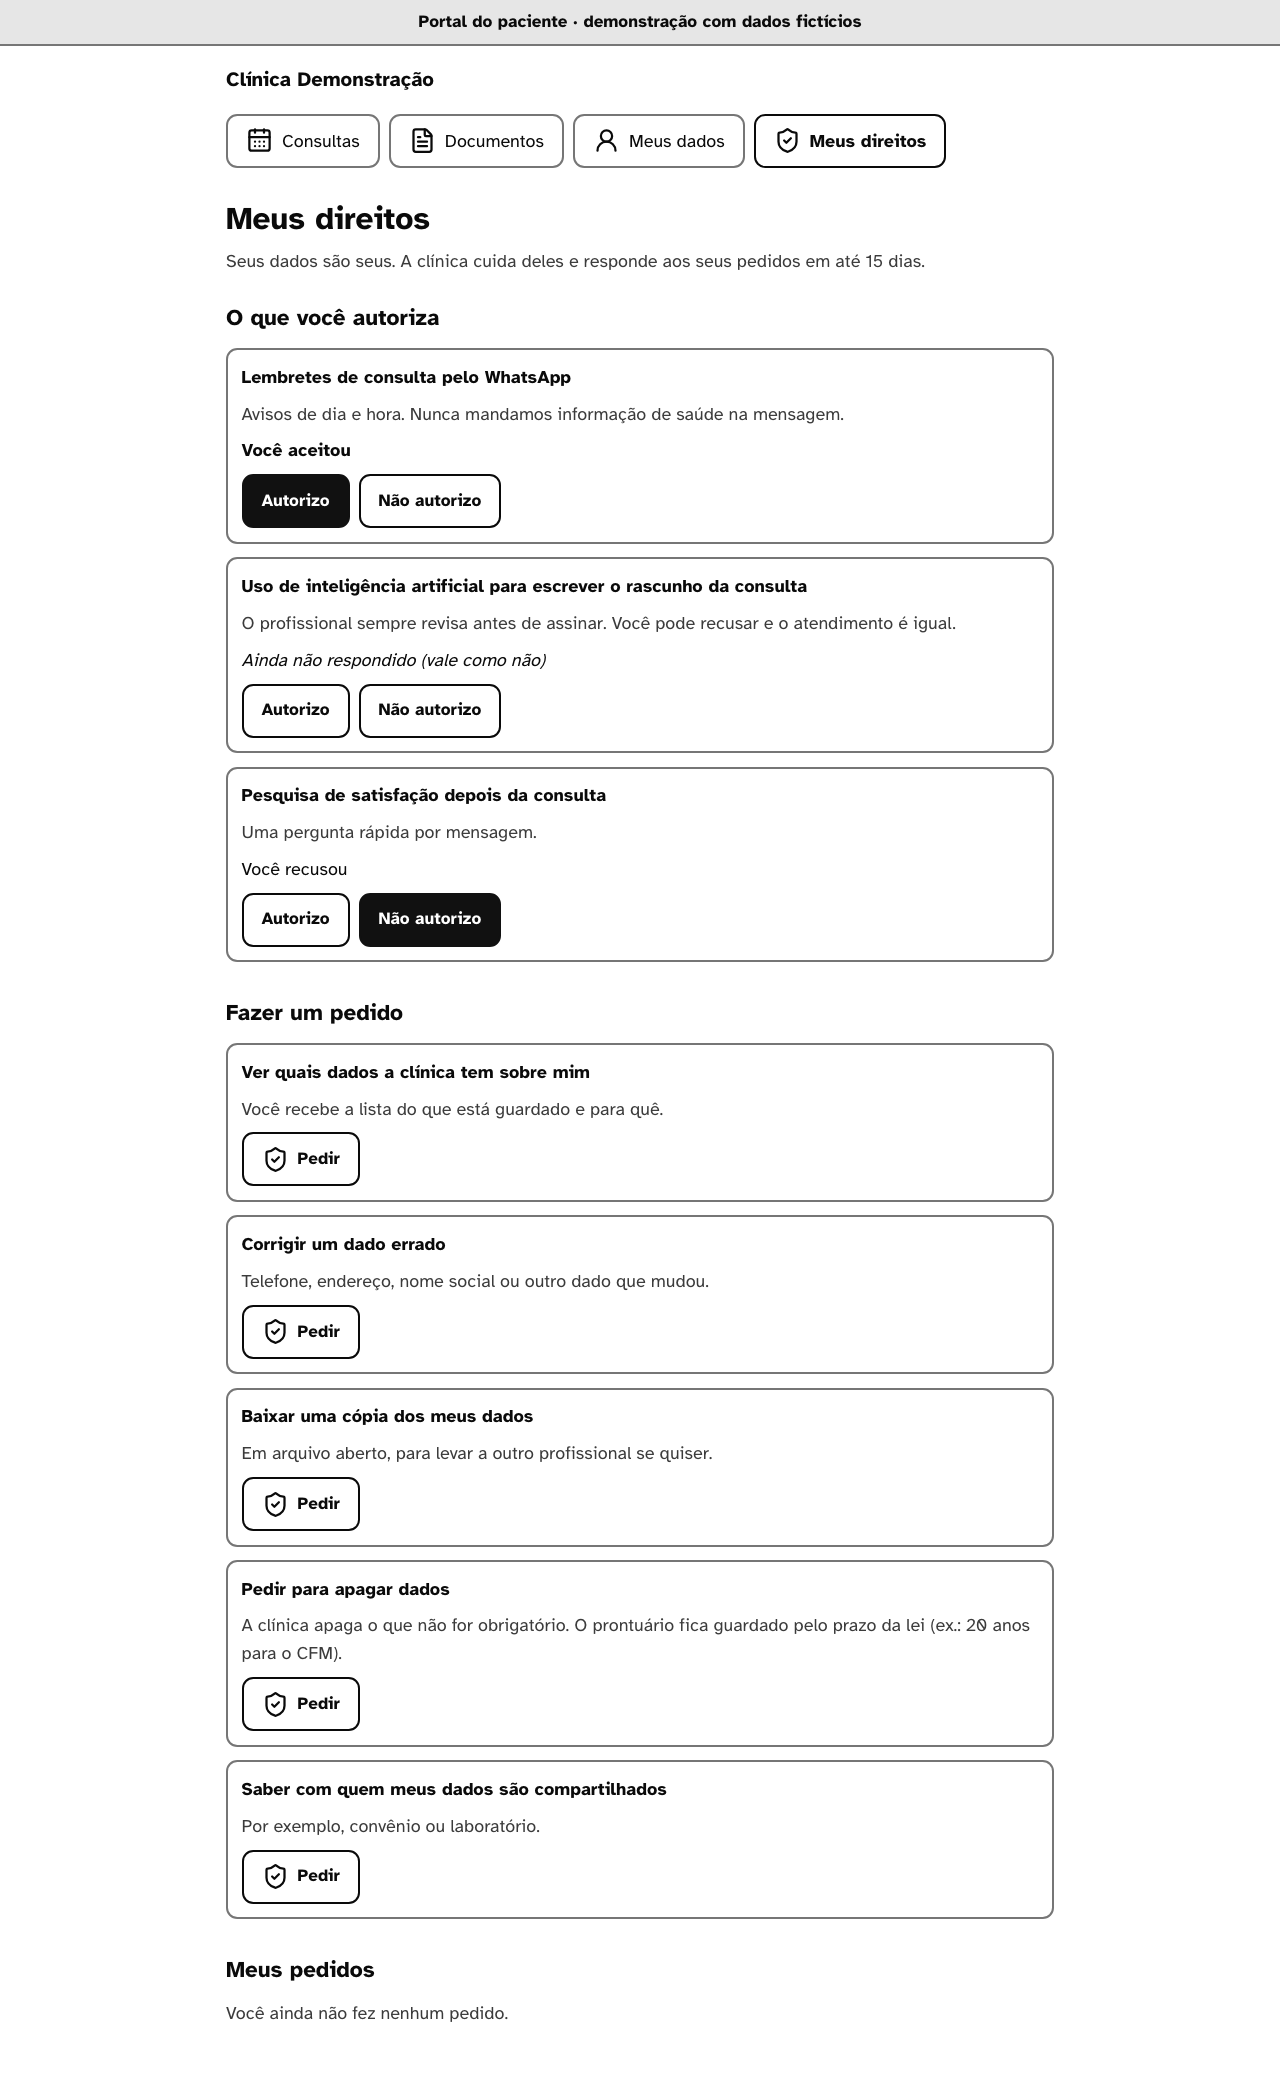
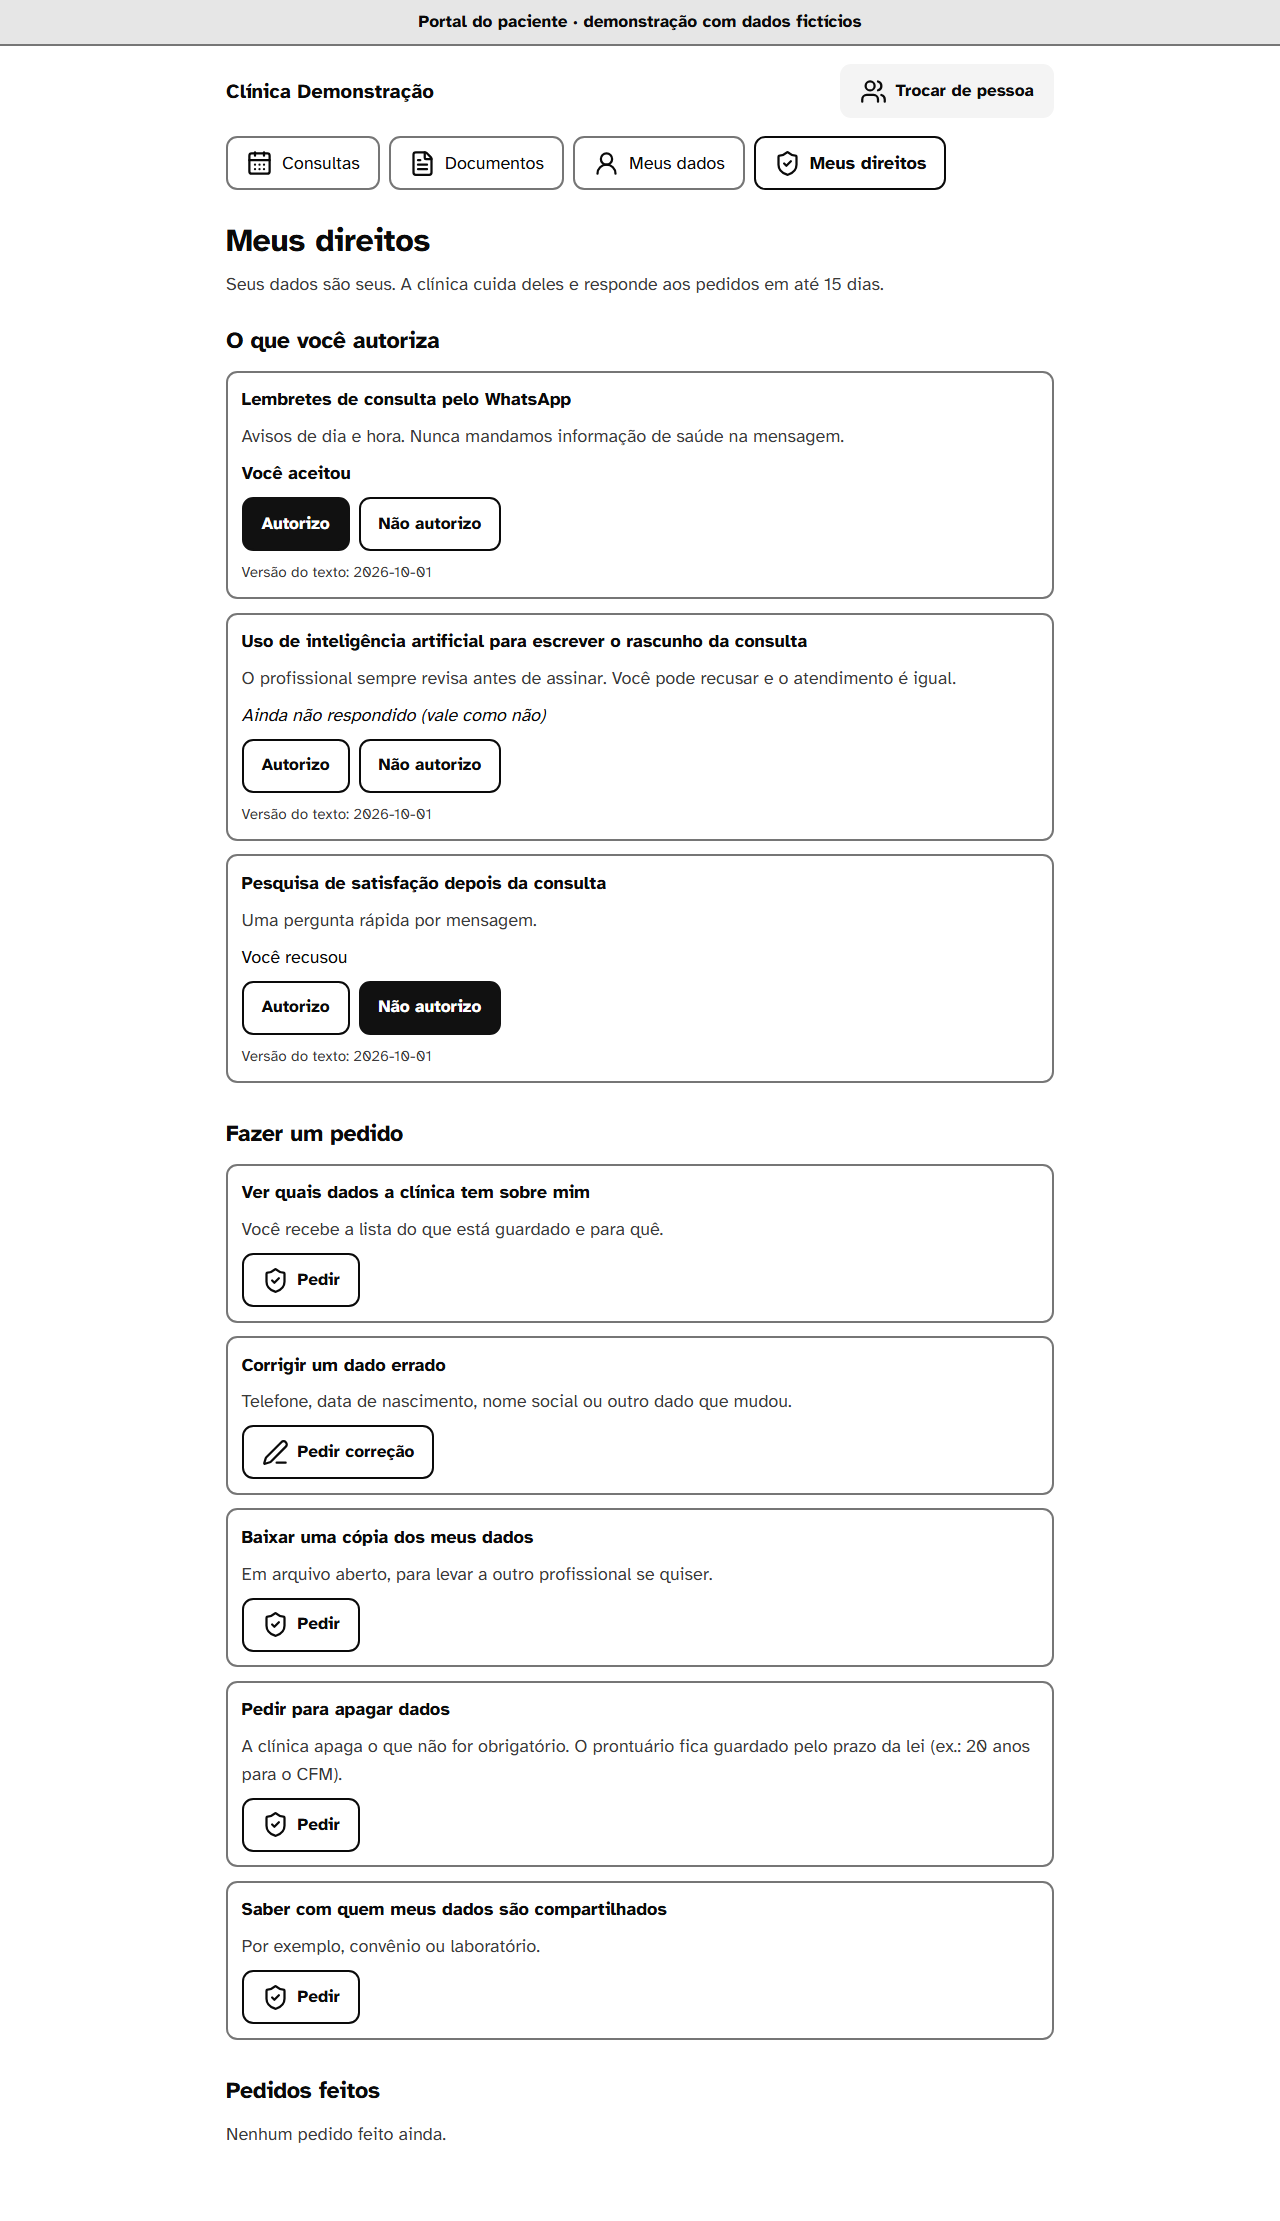
test(web): e2e do portal no contrato novo e capturas atualizadas
Cancelamento sem Desfazer, troca para o dependente, convite pelo #fragmento
e falha única; protocolo no formato do servidor. Capturas de tela do portal
(e a nova do convite) regeradas; caminhos das capturas com fileURLToPath.

diff --git a/apps/web/e2e/portal-pwa.spec.ts b/apps/web/e2e/portal-pwa.spec.ts
@@ -16,6 +16,38 @@ test.describe('Portal do paciente (celular primeiro)', () => {
     await expect(page.getByText('Avisar a clínica que você não vai?')).toBeVisible();
     await page.getByRole('button', { name: 'Sim, não vou' }).click();
     await expect(page.getByText('Pronto, a clínica foi avisada.')).toBeVisible();
+    // O servidor não "descancela": sem Desfazer, e a tela manda falar com a clínica (P5).
+    await expect(page.getByRole('button', { name: 'Desfazer' })).toHaveCount(0);
+    await expect(page.getByText('Para remarcar, fale com a clínica.').first()).toBeVisible();
+  });
+
+  test('"de quem": trocar para o dependente mostra o aviso de responsável e "Dados de <nome>"', async ({ page }) => {
+    await page.goto('/portal');
+    await page.getByRole('button', { name: 'Trocar de pessoa' }).click();
+    await expect(page.getByRole('heading', { name: 'De quem são os dados que você quer ver?' })).toBeVisible();
+    await page.getByRole('button', { name: /Sofia/ }).click();
+    await expect(page.getByText('Você está agindo como responsável de Sofia.')).toBeVisible();
+    await page.getByRole('link', { name: 'Dados do paciente' }).click();
+    await expect(page.getByRole('heading', { level: 1, name: 'Dados de Sofia' })).toBeVisible();
+    await expect(page.getByText('10/05/2018')).toBeVisible();
+  });
+
+  test('convite: token lido do #fragmento e apagado da barra; código pedido em seguida', async ({ page }) => {
+    await page.goto('/portal/convite#convite-de-demonstracao');
+    await expect(page.getByText('O código do link já foi preenchido.')).toBeVisible();
+    expect(new URL(page.url()).hash).toBe('');
+    await page.getByRole('button', { name: 'Mandar código para o celular' }).click();
+    await expect(page.getByRole('heading', { name: 'Digite o código' })).toBeVisible();
+    await page.getByLabel('Código', { exact: true }).fill('123456');
+    await page.getByRole('button', { name: 'Confirmar' }).click();
+    await expect(page).toHaveURL(/\/portal$/);
+  });
+
+  test('convite: qualquer falha mostra a mesma mensagem', async ({ page }) => {
+    await page.goto('/portal/convite');
+    await page.getByLabel('Código do convite').fill('convite-errado');
+    await page.getByRole('button', { name: 'Mandar código para o celular' }).click();
+    await expect(page.getByText(/Não deu para usar este convite/)).toBeVisible();
   });
 
   test('direitos: consentimento em 3 estados e pedido com protocolo', async ({ page }) => {
@@ -29,7 +61,7 @@ test.describe('Portal do paciente (celular primeiro)', () => {
 
     await page.getByRole('listitem').filter({ hasText: 'Baixar uma cópia dos meus dados' }).getByRole('button', { name: 'Pedir' }).click();
     await page.getByRole('button', { name: 'Sim, enviar' }).click();
-    await expect(page.getByText(/Pedido enviado\. Protocolo \d{8}-0001/)).toBeVisible();
+    await expect(page.getByText(/Pedido enviado\. Protocolo \d{8}-[0-9A-Z]{8}/)).toBeVisible();
     await expect(page.locator('section[aria-labelledby="t-meus"]')).toContainText('Protocolo');
   });
 

diff --git a/apps/web/e2e/telas.spec.ts b/apps/web/e2e/telas.spec.ts
@@ -1,6 +1,7 @@
 import AxeBuilder from '@axe-core/playwright';
 import { expect, test, type Page } from '@playwright/test';
 import { mkdirSync } from 'node:fs';
+import { fileURLToPath } from 'node:url';
 import { coresNaoCinza } from '../lib/cores.mjs';
 
 const TELAS: [string, string][] = [
@@ -42,11 +43,12 @@ const TELAS: [string, string][] = [
   ['portal-documentos', '/portal/documentos'],
   ['portal-dados', '/portal/dados'],
   ['portal-direitos', '/portal/direitos'],
+  ['portal-convite', '/portal/convite'],
   ['sem-conexao', '/offline'],
   ['pagina-404', '/nao-existe-esta-pagina'],
 ];
 
-const PASTA = new URL('../../../docs/02-produto/telas/', import.meta.url).pathname;
+const PASTA = fileURLToPath(new URL('../../../docs/02-produto/telas/', import.meta.url));
 
 /** Lê as cores CALCULADAS de todos os elementos da tela e devolve as que não são cinza. */
 async function coresRenderizadas(page: Page): Promise<string[]> {

diff --git a/apps/web/e2e/atendimento-documentos.spec.ts b/apps/web/e2e/atendimento-documentos.spec.ts
@@ -1,7 +1,8 @@
 import AxeBuilder from '@axe-core/playwright';
 import { expect, test, type Page } from '@playwright/test';
+import { fileURLToPath } from 'node:url';
 
-const PASTA = new URL('../../../docs/02-produto/telas/', import.meta.url).pathname;
+const PASTA = fileURLToPath(new URL('../../../docs/02-produto/telas/', import.meta.url));
 
 /** Troca o usuário da demonstração e segue navegando sem recarregar (os dados vivem na memória da aba). */
 async function entrarComo(page: Page, nome: RegExp) {
